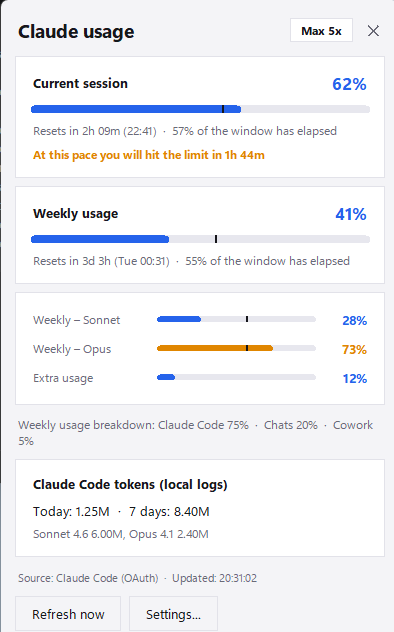
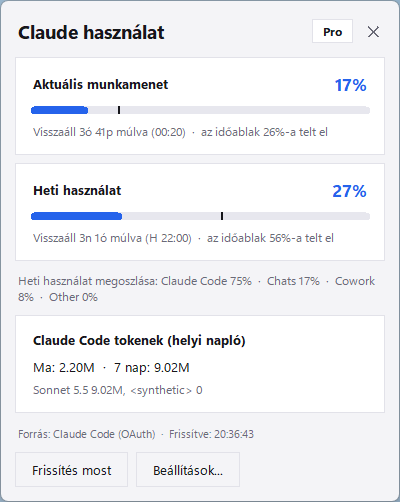
Real screenshot, ignore synthetic log entries and zero-share rows

diff --git a/tests/test_core.py b/tests/test_core.py
@@ -52,6 +52,11 @@ class ParseUsageTests(unittest.TestCase):
                             "scope": {"model": {"display_name": "sonnet"}}}]}
         self.assertEqual(len(parse_usage(data).models), 1)
 
+    def test_zero_share_rows_are_dropped(self):
+        data = {"five_hour": {"utilization": 1}, "seven_day_breakdown": {"rows": [
+            {"display_name": "Claude Code", "percent": 75}, {"display_name": "Other", "percent": 0}]}}
+        self.assertEqual(parse_usage(data).breakdown, [("Claude Code", 75.0)])
+
     def test_unusable_response_raises(self):
         for bad in ({}, {"unrelated": 1}, [], None):
             with self.assertRaises(UsageError):
@@ -191,6 +196,12 @@ class LocalStatsTests(unittest.TestCase):
             self.assertEqual(stats.today, 115)
             self.assertEqual(stats.week, 115 + 1015)
             self.assertEqual(stats.top_models[0][0], "Sonnet 4.6")
+
+    def test_synthetic_messages_are_ignored(self):
+        with tempfile.TemporaryDirectory() as folder:
+            path = Path(folder) / "a.jsonl"
+            self.write(path, [self.assistant("m1", 50, NOW, model="<synthetic>")])
+            self.assertEqual(parse_log(path), {})
 
     def test_missing_directory(self):
         self.assertIsNone(LocalStats(Path("does-not-exist")).scan(NOW))

diff --git a/claude_usage/localstats.py b/claude_usage/localstats.py
@@ -64,12 +64,13 @@ def parse_log(path: Path) -> dict:
                 if not isinstance(message, dict) or not isinstance(message.get("usage"), dict):
                     continue
                 moment = parse_iso(entry.get("timestamp"))
-                if moment is None:
+                model = message.get("model")
+                if moment is None or (model or "").startswith("<"):  # '<synthetic>' = client-side message
                     continue
                 key = message.get("id") or entry.get("uuid") or f"{path.name}:{moment.isoformat()}"
                 tokens = _entry_tokens(message["usage"])
                 if key not in found or tokens > found[key][2]:
-                    found[key] = (moment, short_model(message.get("model")), tokens, entry.get("sessionId"))
+                    found[key] = (moment, short_model(model), tokens, entry.get("sessionId"))
     except OSError:
         pass
     return found

diff --git a/claude_usage/sources.py b/claude_usage/sources.py
@@ -187,7 +187,7 @@ def parse_usage(data: dict, source: str = "", plan: str = "") -> Usage:
 
     rows = (data.get("seven_day_breakdown") or {}).get("rows") or []
     usage.breakdown = [(str(r.get("display_name") or r.get("key")), float(r["percent"]))
-                       for r in rows if isinstance(r, dict) and r.get("percent") is not None]
+                       for r in rows if isinstance(r, dict) and r.get("percent")]  # zero shares are noise
     return usage
 
 
